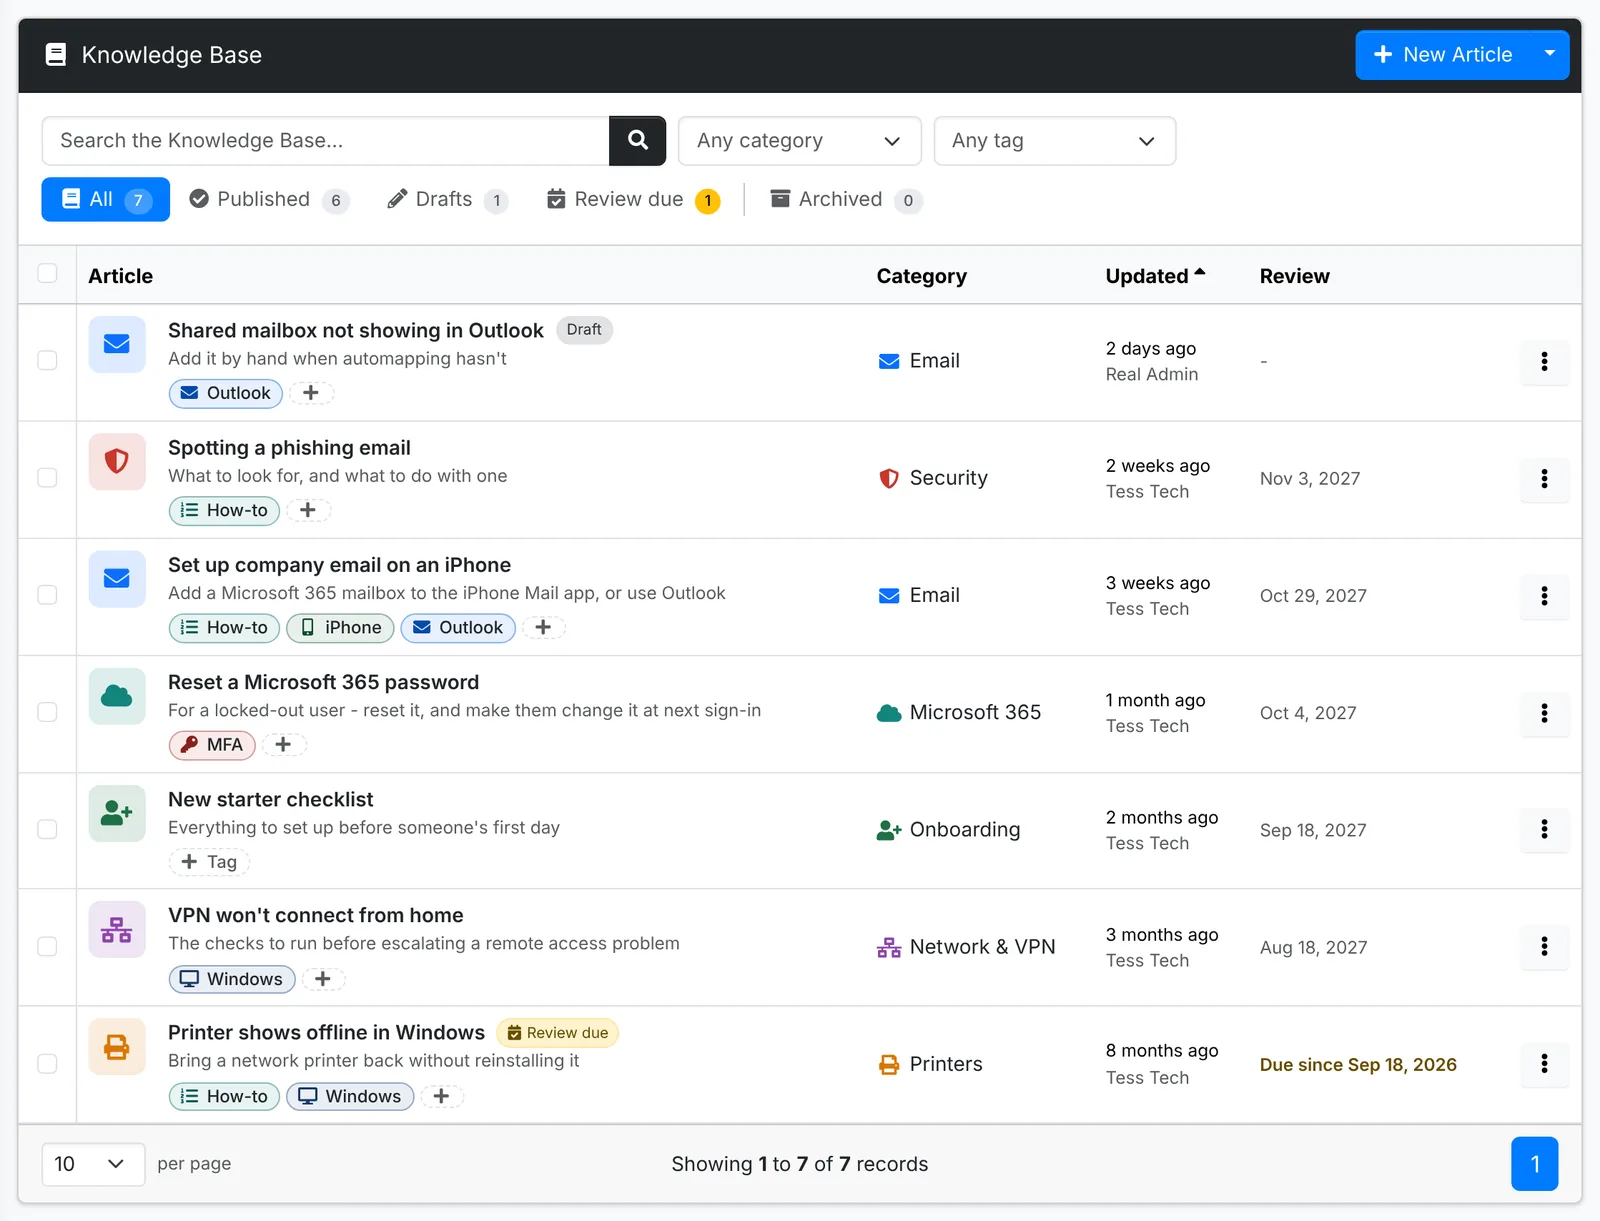
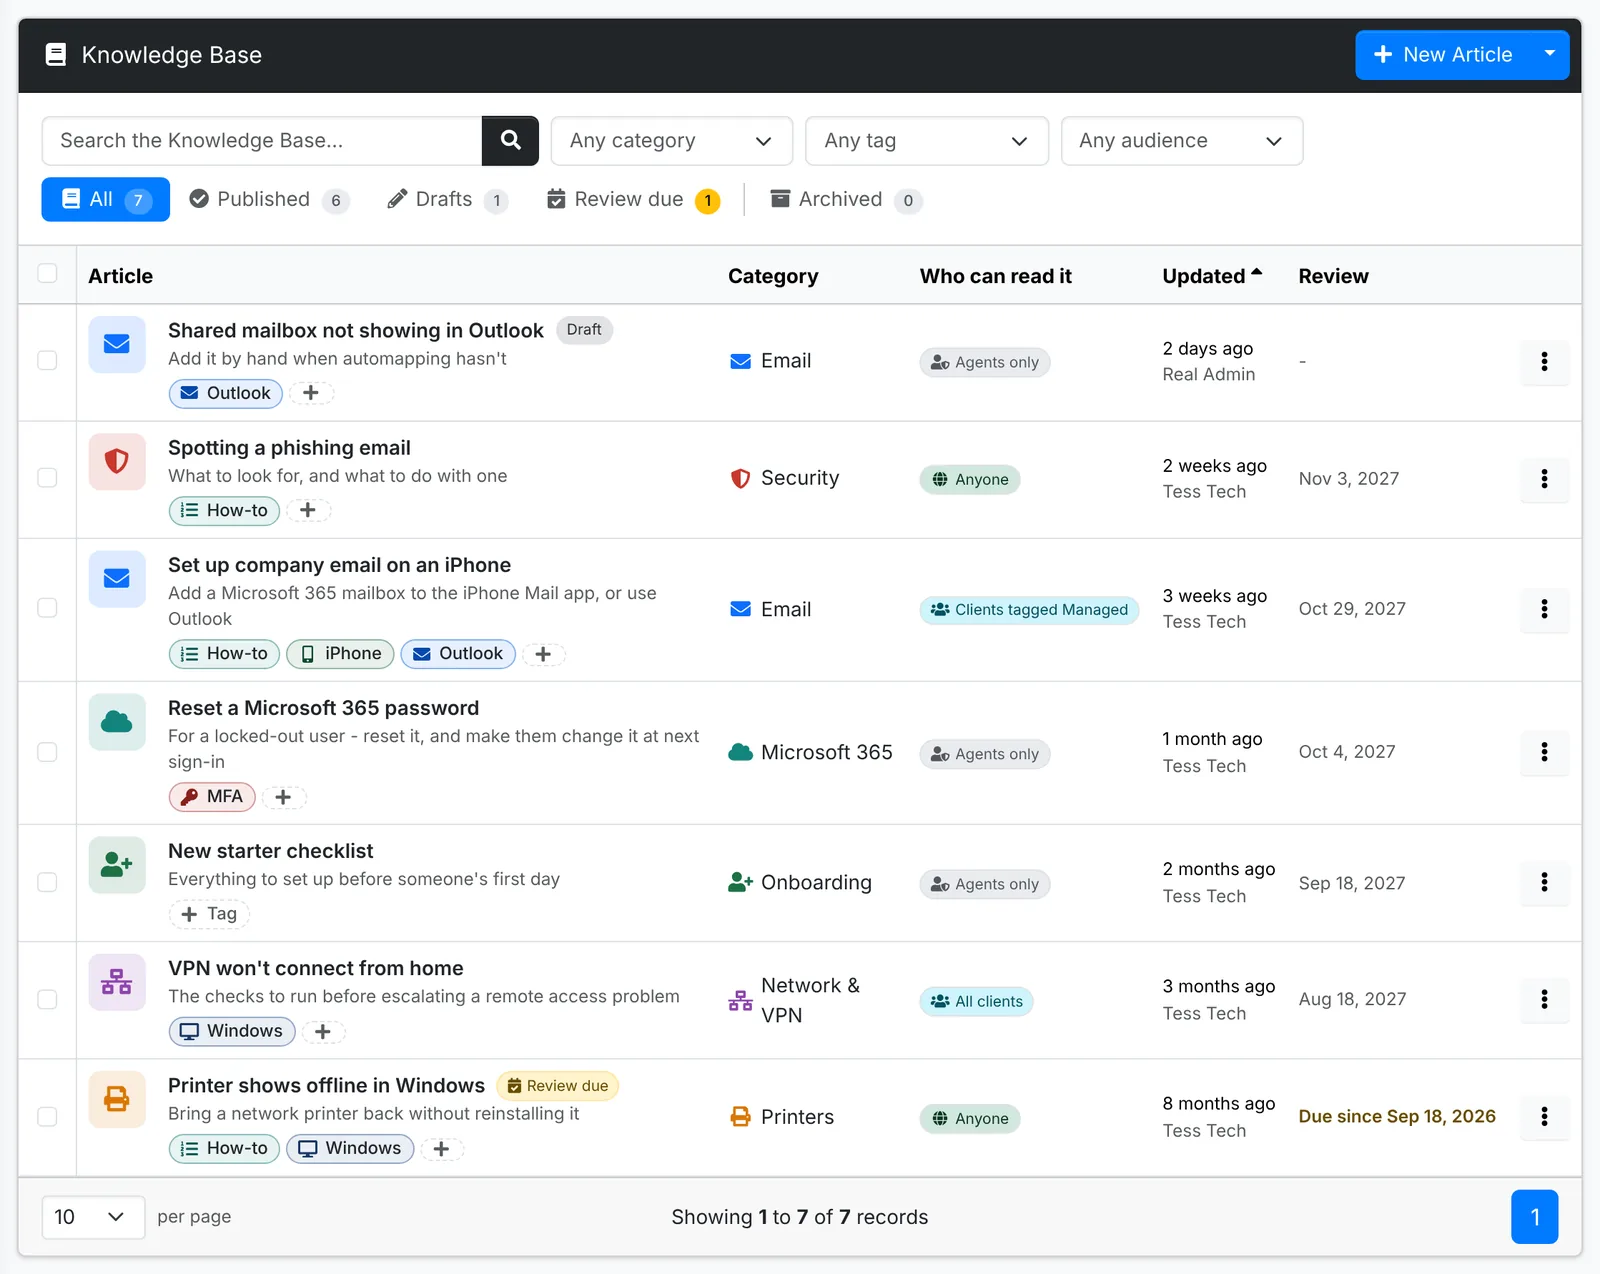
Docs: Knowledge Base sharing - Share an article section with who can read it, what clients see under Help and the public help center, three new screenshots and the list, article and edit screenshots retaken, portal overview and access pages mention Help

diff --git a/content/service-desk/knowledge-base.md b/content/service-desk/knowledge-base.md
@@ -1,10 +1,10 @@
 ---
 title: Knowledge Base
-description: How-tos, fixes and policies written once for every client, with categories, tags, versions and reviews to keep them right.
+description: How-tos, fixes and policies written once for every client, shared in their client portal or on a public help center, with categories, tags, versions and reviews to keep them right.
 where: Main menu > Knowledge Base
 ---
 
-The Knowledge Base is for what your team explains again and again - setting up email on a phone, the printer that shows offline, what to do with a phishing email. You write each one once, as an article, and it's there for every client.
+The Knowledge Base is for what your team explains again and again - setting up email on a phone, the printer that shows offline, what to do with a phishing email. You write each one once, as an article, and it's there for every client. Share the ones your clients can use, and they read them in their client portal - or on a public help center that anyone can open.
 
 A client's own documentation still goes in their [Files and documents](/documentation/files-and-documents). The Knowledge Base is for what isn't any one client's.
 
@@ -15,9 +15,10 @@ A client's own documentation still goes in their [Files and documents](/document
 1. Open **Knowledge Base** in the main menu and click **New Article**.
 2. Give it a **Title**, and a **Summary** - one line on what it helps with. The summary shows under the title in the list and in search.
 3. Pick a **Category**, add **Tags** if you like, and choose how often it's reviewed under **Review**.
-4. Write the article in the editor. Headings, lists, tables, links and pictures all work - paste a screenshot straight in.
-5. Leave **Published** on if it's finished, or turn it off to keep it as a draft.
-6. Click **Create Article**.
+4. Under **Who can read it**, choose who it's for - see [Share an article](#share). New articles start at **Agents only**.
+5. Write the article in the editor. Headings, lists, tables, links and pictures all work - paste a screenshot straight in.
+6. Leave **Published** on if it's finished, or turn it off to keep it as a draft.
+7. Click **Create Article**.
 
 A draft is marked **Draft** until it's published. Publish one from its page, or from its **⋮** menu in the list.
 
@@ -25,7 +26,7 @@ A draft is marked **Draft** until it's published. Publish one from its page, or 
 
 ## Find an article
 
-The list searches titles, summaries, the words in the articles and their tags. Narrow it with **Any category** and **Any tag**, or pick a view along the top:
+The list searches titles, summaries, the words in the articles and their tags. Narrow it with **Any category**, **Any tag** and **Any audience**, or pick a view along the top:
 
 - **All** - every article that isn't archived
 - **Published** - the finished ones
@@ -39,7 +40,7 @@ Tick articles in the list to change several at once: **Set category**, **Publish
 
 ## Read an article
 
-Click an article's title to open it. Along the top are **Edit**, **Publish** for a draft, print, and the **⋮** menu with **Make draft**, **Mark reviewed**, **Copy**, **Archive** and **Delete**. The column on the right shows its category, whether it's published, when it's next reviewed and its earlier versions.
+Click an article's title to open it. Along the top are **Edit**, **Publish** for a draft, print, and the **⋮** menu with **Make draft**, **Mark reviewed**, **Copy**, **Archive** and **Delete**. The column on the right shows its category, who can read it, whether it's published, when it's next reviewed and its earlier versions.
 
 ![An article](sd-kb-article.webp "An article: the content, with its category, review and versions beside it")
 
@@ -55,7 +56,50 @@ Once that long has passed since the article was written, edited or last reviewed
 
 ### Copy an article
 
-**Copy** makes a new draft from an article, with its pictures and tags - to start a similar one without rewriting it.
+**Copy** makes a new draft from an article, with its pictures, its tags and who can read it - to start a similar one without rewriting it.
+
+## Share an article {#share}
+
+**Who can read it**, in an article's window, says who it's for:
+
+- **Agents only** - your team, here in ITFlow. Every new article starts here.
+- **Clients** - your clients' contacts, in their client portal under **Help**. Then say which clients:
+  - **All clients** - every client
+  - **Clients tagged** - every client with any of the client tags you pick, such as **Managed**. A client given the tag later can read it too, and one whose tag is taken off no longer can.
+  - **Clients** - some clients by name
+
+  Tags and names can be picked together: a client that matches either can read it.
+- **Anyone** - every client's portal, and the [public help center](#help-center) while it's on.
+
+![Who can read it](sd-kb-share.webp "Who can read it: an article for every client tagged Managed")
+
+Only published articles are shown outside ITFlow. A draft or an archived article stays with your team, whoever it's set for.
+
+The list's **Who can read it** column shows each article's, and **Any audience** filters by it. On an article's page, the right-hand column says who can read it and where they find it.
+
+> [!WARNING]
+> Keep anything about one client - names, addresses, passwords - out of an article you share.
+
+### What clients see {#portal}
+
+Once a client has an article to read, their contacts see **Help** in the client portal's top bar. It lists the articles shared with their company, by category, with a search box. Each article has **Print**, and **Still stuck? Ask us**, which starts a ticket about it. Every contact with portal access can read them, whatever their roles.
+
+![Help in the client portal](portal-help.webp "Help in the client portal: the articles shared with this client")
+
+To see what one contact sees, use **View portal as them** on their page - see [What clients see](/portal/overview).
+
+### The public help center {#help-center}
+
+Articles for **Anyone** can also go on a public help center: a page of its own, with your logo, that anyone with the link can read without signing in. Put it on your website, or in your email signature. It has the same categories and search as the portal.
+
+![The public help center](sd-kb-help-center.webp "The public help center: the articles anyone can read")
+
+It's off to start with. An admin switches it on in **Admin > Settings > Knowledge Base**, which also has its link to copy. While it's on:
+
+- the client portal's sign-in page links to it, as **Help center**
+- an article for anyone shows its own public link on its page, to copy and send
+
+Search engines are asked not to list it. While it's off, its link says there's nothing there, and articles for anyone are only in your clients' portals.
 
 ## Start from a client's document
 
@@ -72,4 +116,4 @@ Admins can also add a category or a tag straight from an article's form.
 Reading the Knowledge Base takes **Support** in an agent's role. Writing and changing articles takes **Edit**, and deleting them **Full**. See [Roles and permissions](/admin/roles).
 
 > [!NOTE]
-> The Knowledge Base can be switched off in [Admin > Settings > Modules](/admin/settings#modules). Its articles are kept, and they're all there again when it's switched back on.
+> The Knowledge Base can be switched off in [Admin > Settings > Modules](/admin/settings#modules). Its articles are kept, and they're all there again when it's switched back on. While it's off, clients don't see **Help** in their portal, and the public help center is closed.

diff --git a/content/portal/overview.md b/content/portal/overview.md
@@ -9,6 +9,7 @@ The client portal is your clients' side of ITFlow. A contact you give access to 
 - raise tickets, follow them and reply, and ask for things with your request forms
 - see and pay their invoices, accept quotes and save a card for autopay
 - look up their devices, licenses, domains, documents and colleagues
+- read the how-tos you share with them, under **Help**
 
 It carries your company's name and works on a phone as well as a computer. What each contact sees depends on their roles - see [Giving contacts access](/portal/access).
 
@@ -34,7 +35,7 @@ Announcements you post - planned maintenance, a holiday closure - show at the to
 
 ## Finding their way around
 
-The bar along the top has **Home**, **Tickets**, **Billing** (invoices, quotes, recurring invoices, payments, statement, and cards and autopay) and **Your IT** (devices, licenses, domains and certificates, documents and contacts). **New ticket** is always there.
+The bar along the top has **Home**, **Tickets**, **Billing** (invoices, quotes, recurring invoices, payments, statement, and cards and autopay) and **Your IT** (devices, licenses, domains and certificates, documents and contacts). **Help** is there too once you've shared an article with them - see [Knowledge Base](/service-desk/knowledge-base#portal). **New ticket** is always there.
 
 Their name opens **Your account** - their details, the emails they get from you, whether you text them, their password, two-step sign-in and phone PIN - and **Activity**, every sign-in and everything they did in the portal. They can switch to dark mode there too.
 

diff --git a/content/portal/access.md b/content/portal/access.md
@@ -10,7 +10,7 @@ Any contact with an email address can be given access to the client portal. What
 
 | Contact | Sees in the portal |
 |---|---|
-| **Everyone** with access | Their own tickets, raising new ones and request forms, and the devices they use |
+| **Everyone** with access | Their own tickets, raising new ones and request forms, the devices they use, and the [Knowledge Base](/service-desk/knowledge-base#portal) articles you share with their company, under **Help** |
 | **Billing** contacts | Also invoices, quotes, recurring invoices, payments, statements, and cards and autopay |
 | **Technical** contacts | Also every ticket at the company, and the company's devices, licenses, domains and certificates, documents and contacts |
 | The **Primary** contact | Everything - and adds people, changes their roles and gives or takes away their portal access |
